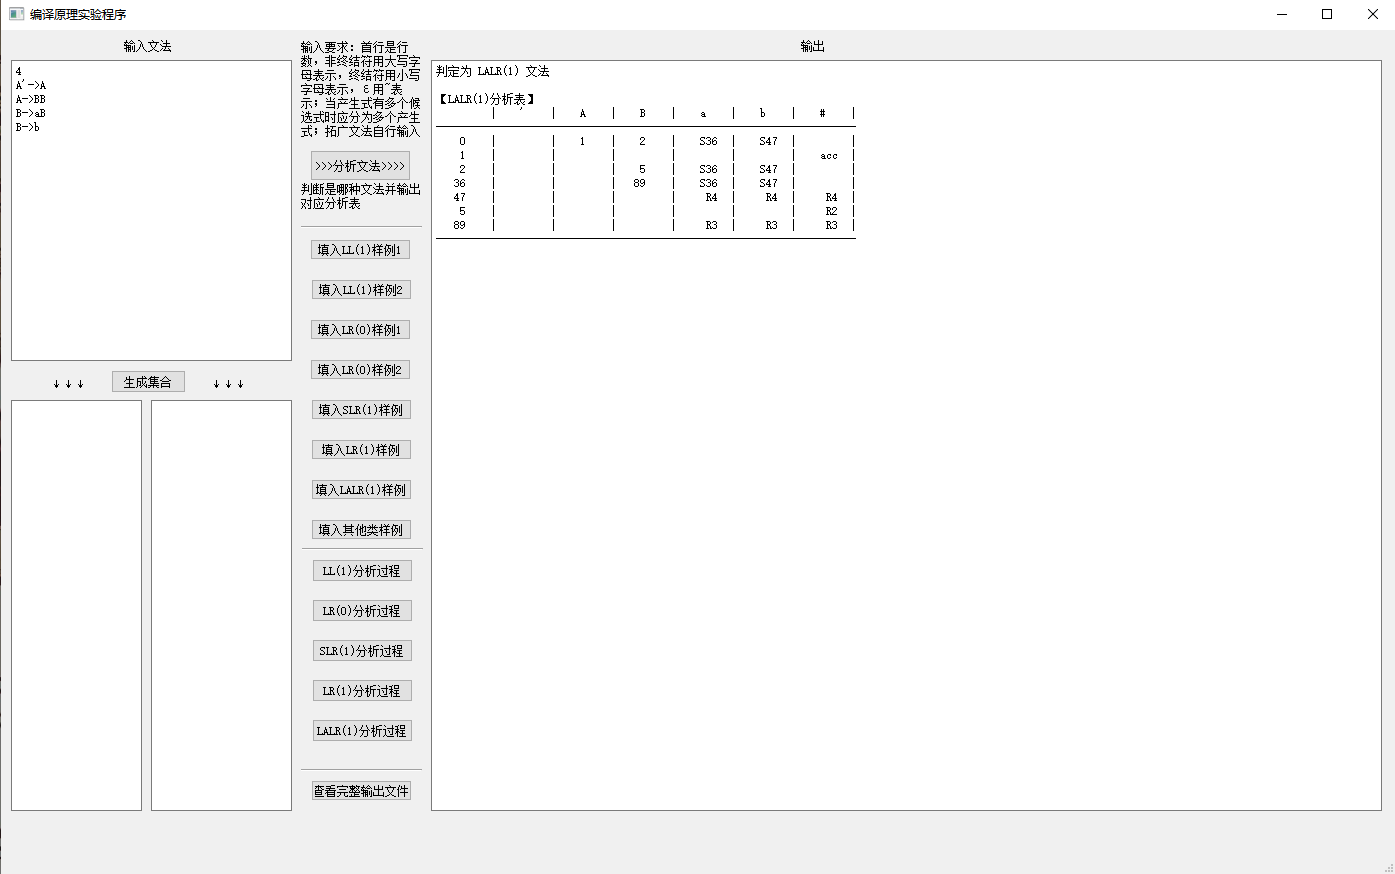
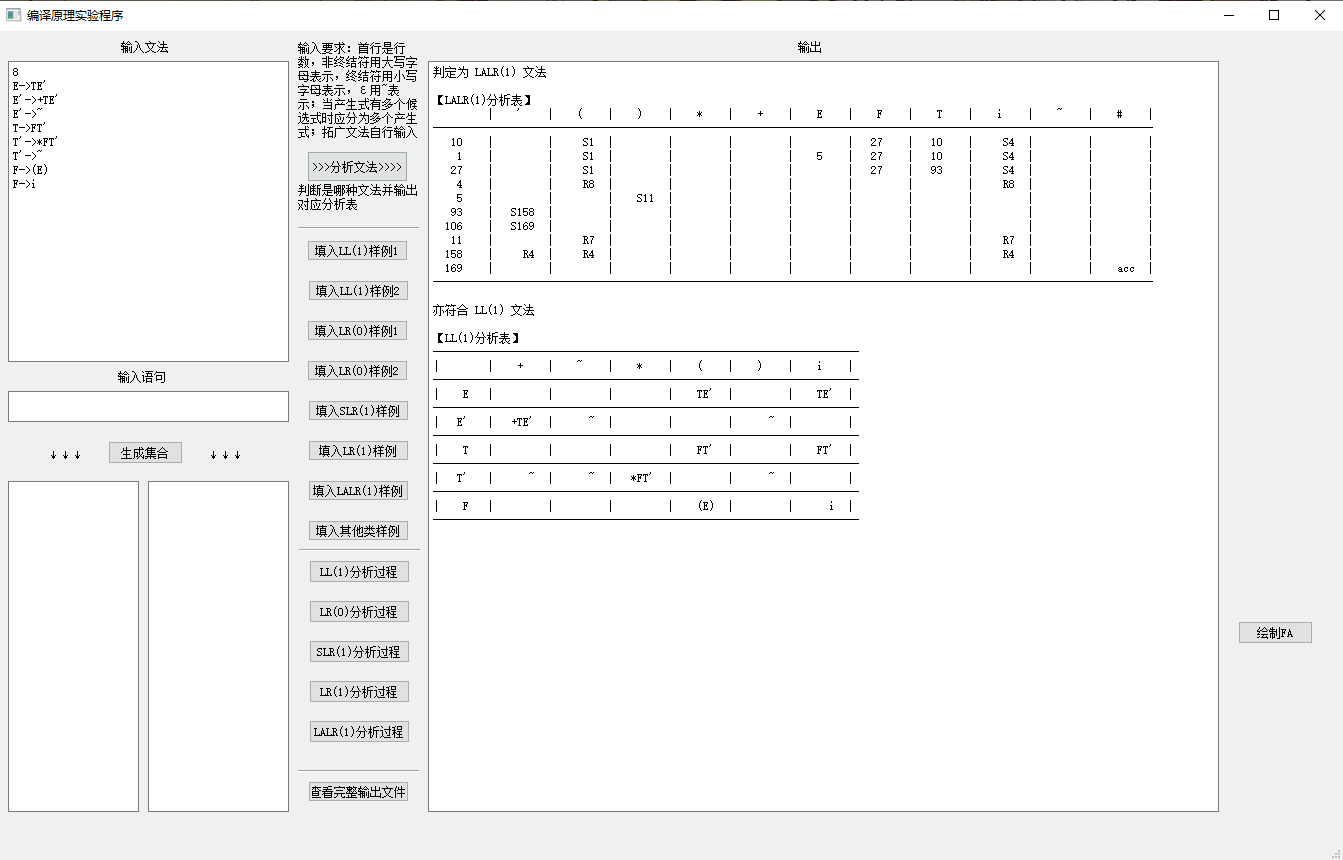
new feature

diff --git a/mainwindow.cpp b/mainwindow.cpp
@@ -1,5 +1,6 @@
 #include "mainwindow.h"
 #include "ui_mainwindow.h"
+#include "windows.h"
 #include <stdio.h>
 #include <stdlib.h>
 #include "LL1.h"
@@ -54,7 +55,7 @@ void MainWindow::output()
     }
     file_out.close();
 
-    output_browser->setText(result_string);
+    ui->output_browser->setText(result_string);
 }
 
 // 文法分析函数
@@ -122,7 +123,6 @@ int MainWindow::parse_lr1(int type)
     if(type == 0) result_indicator = run_lr1andslr1("log/temp_in.txt", "log/temp_out.txt","default");
     else result_indicator = run_lr1andslr1("log/temp_in.txt", "log/temp_out.txt",ui->lineEdit->text().toStdString());
     cout << "LR1 - " << result_indicator << endl;
-    cout<<"test text----------------------------------------"<<endl;
     return result_indicator;
 }
 
@@ -139,7 +139,6 @@ int MainWindow::parse_lalr1(int type)
     if(type == 0) result_indicator = run_lalr1("log/temp_in.txt", "log/temp_out.txt","default");
     else result_indicator = run_lalr1("log/temp_in.txt", "log/temp_out.txt",ui->lineEdit->text().toStdString());
     cout << "LALR1 - " << result_indicator << endl;
-    cout<<"test text----------------------------------------"<<endl;
     return result_indicator;
 }
 
@@ -222,6 +221,17 @@ int MainWindow::generate_best_fit()
     }*/
     return local_type+ll1_judge/10;
 }
+//显示fa图片
+void MainWindow::on_testButton_clicked()
+{
+    WinExec("fa_py/DFApicture2.0.exe",SW_SHOWNORMAL);
+    Sleep(1000);
+    QPixmap pixmap("fa_py/output-picture.gv.png");
+    ui->label_fa->setPixmap(pixmap);
+    ui->label_fa->adjustSize();
+    //ui->label_fa->show();
+}
+
 
 // 槽函数定义
 void MainWindow::on_submit_button_clicked()
@@ -252,7 +262,6 @@ void MainWindow::on_pushButton_4_clicked()
 {
     parse_lalr1(1);
     output();
-
 }
 void MainWindow::on_show_output_button_clicked()
 {
@@ -386,6 +395,7 @@ void MainWindow::on_pushButton_clicked()
 {
     input_editor->setPlainText("7\nS'->S\nS->Aa\nS->bAc\nS->Bc\nS->bBa\nA->d\nB->d\n");
 }
+
 
 
 

diff --git a/LALR1.cpp b/LALR1.cpp
@@ -377,7 +377,7 @@ void print_items2(){
     //这里也不用改，只需要在输出边时，变成输出newseq就行了
     //由于相同的心经过转换函数到达的心仍然相同，所以不用：只需要输出更改为flag=1的要输出，flag=0的不用
     //printf("合并后：项目集规范族：\n");
-    fout_lalr1 << "【CLOSURE(Merged)】" << endl;
+    fout_lalr1 << "【CLOSURE】" << endl;
     for(int i=0;i<collection_lalr1.size();++i){
         if(collection_lalr1[i].flag==1){
             continue;
@@ -407,7 +407,7 @@ void print_edge2(){
             for(int x=0;x<v.size();++x){
                 goarr_lalr1.insert(make_pair(make_pair(i, v[x]),j));
                 //printf("I%d->%c->I%d\n",collection_lalr1[i].newseq,v[x],collection_lalr1[j].newseq);
-                fout_lalr1<<"I"<<collection_lalr1[i].newseq<<"->"<<v[x]<<"->I"<<j<<endl;
+                fout_lalr1<<"I"<<collection_lalr1[i].newseq<<"->"<<v[x]<<"->I"<<collection_lalr1[j].newseq<<endl;
             }
         }
     }

diff --git a/fa_py/DFApicture2.0.py b/fa_py/DFApicture2.0.py
@@ -1,0 +1,32 @@
+# -*- coding: utf-8 -*-
+"""
+Created on Thu Jun  3 19:02:57 2021
+
+@author: Dell
+"""
+
+from graphviz import Digraph
+import sys
+with open(r"log/temp_out.txt" ,"r",encoding='utf-8') as f:
+    str = f.read()
+    f.close()
+s1=str[str.find("【EDGE】")+7:str.find("【L")-1]
+#print(s1)
+lists1= s1.split('\n')  #转换函数
+
+'''s2=str[str.find("【CLOSURE】")+10:str.find("【EDGE】")-2]
+print(s2)
+lists2= s2.split('closure-')'''
+
+dot = Digraph(comment='The Test', format="png")
+'''
+for i in range(1,len(lists2)):
+    m=lists2[i]
+    m1=m[:m.find("\n")]
+    dot.node(lists2[i],lists2[i],shape='circle')
+'''
+for i in range(len(lists1)):
+    dot.edge(lists1[i].split('->')[0], lists1[i].split('->')[2], lists1[i].split('->')[1])
+#dot.view()
+dot.render('fa_py/output-picture.gv',format='png', view=False)
+sys.exit()

diff --git a/SLR1.cpp b/SLR1.cpp
@@ -498,7 +498,7 @@ void make_go_slr1 ()
                 if (go_slr1[i][k] == j)
                 {
                     sin.clear();
-                    sin << "I" << i << "--" <<(char)(k)<<"--I"<<j;
+                    sin << "I" << i << "->" <<(char)(k)<<"->I"<<j;
                     sin >> out;
                     fout_slr1 << out.c_str() << endl;
                 }

diff --git a/LR0.cpp b/LR0.cpp
@@ -309,7 +309,7 @@ void make_go_lr0()
                 if(go_lr0[i][k] == j)
                 {
                     sin.clear();
-                    sin << "I" << i << "--" <<(char)(k)<<"--I"<<j;
+                    sin << "I" << i << "->" <<(char)(k)<<"->I"<<j;
                     sin >> out;
                     fout_lr0 << out.c_str() << endl;
                 }

diff --git a/mainwindow.h b/mainwindow.h
@@ -59,6 +59,8 @@ private slots:
 
     void on_pushButton_4_clicked();
 
+    void on_testButton_clicked();
+
 private:
     Ui::MainWindow *ui;
     QPlainTextEdit* input_editor;
